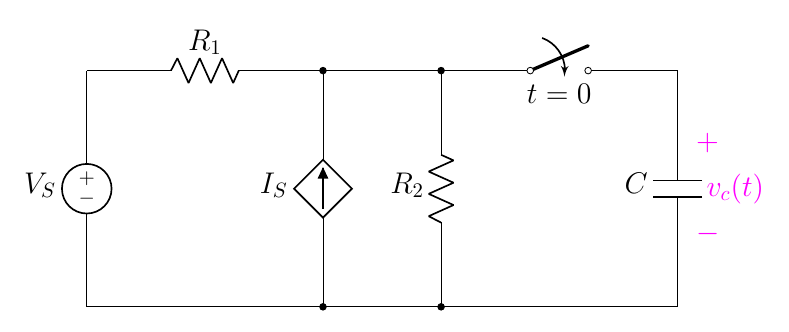
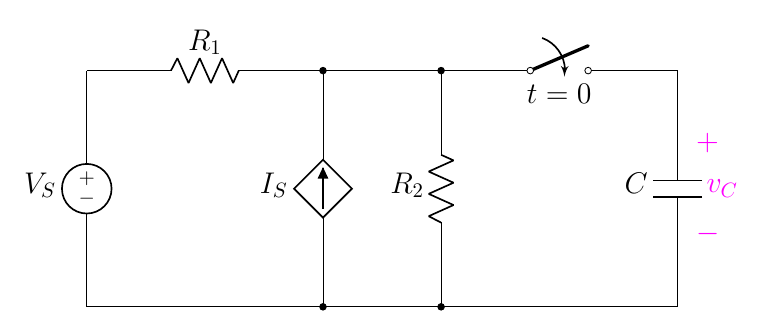
8.62

diff --git a/2.4 Driven RC/8.9 Driven RC Circuit/8.62(new).tex b/2.4 Driven RC/8.9 Driven RC Circuit/8.62(new).tex
@@ -31,6 +31,6 @@
     %%% find %%%
     \node at(8,3.6) []{$t=0$};
     \draw[magenta](10.2,3)  
-        to[open,v^=$v_c(t)$] ++(0,-2);
+        to[open,v^=$v_C$] ++(0,-2);
 \end{circuitikz}
 \end{document}
